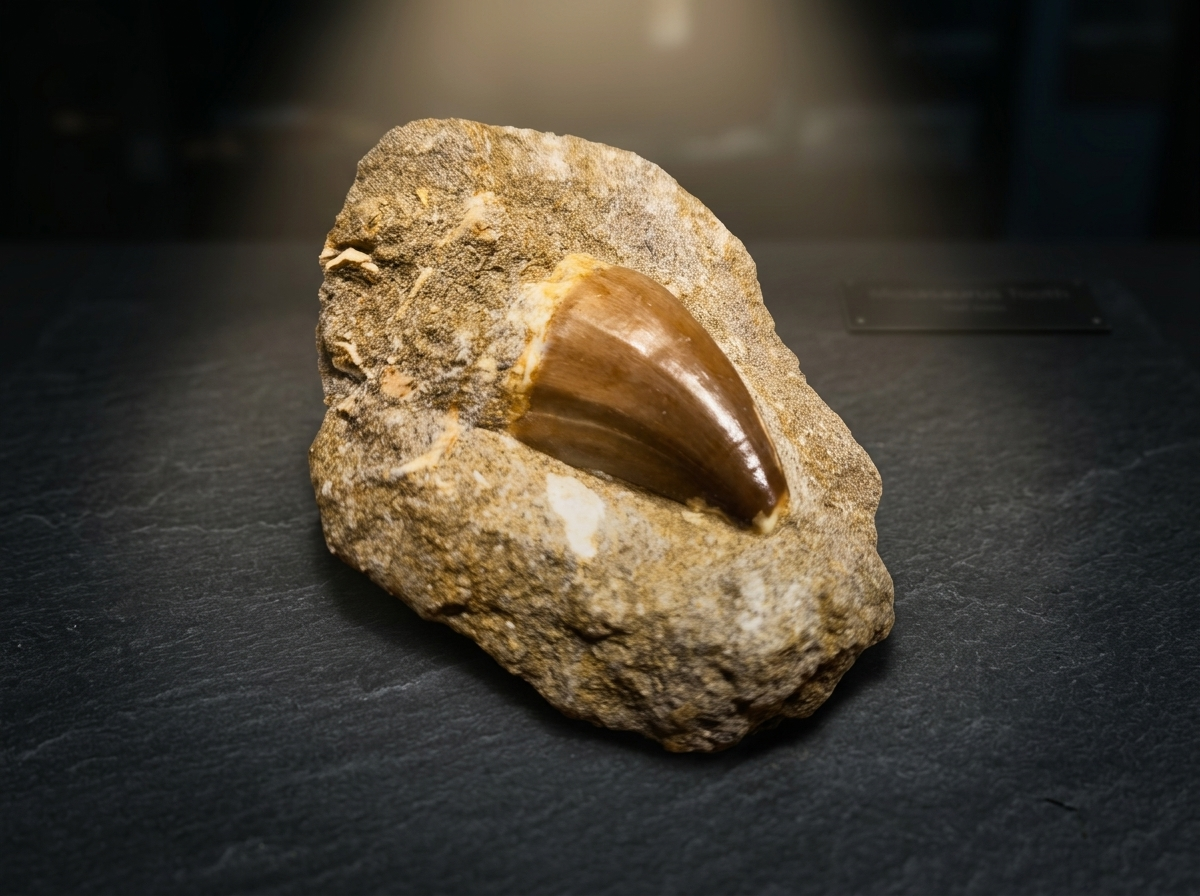
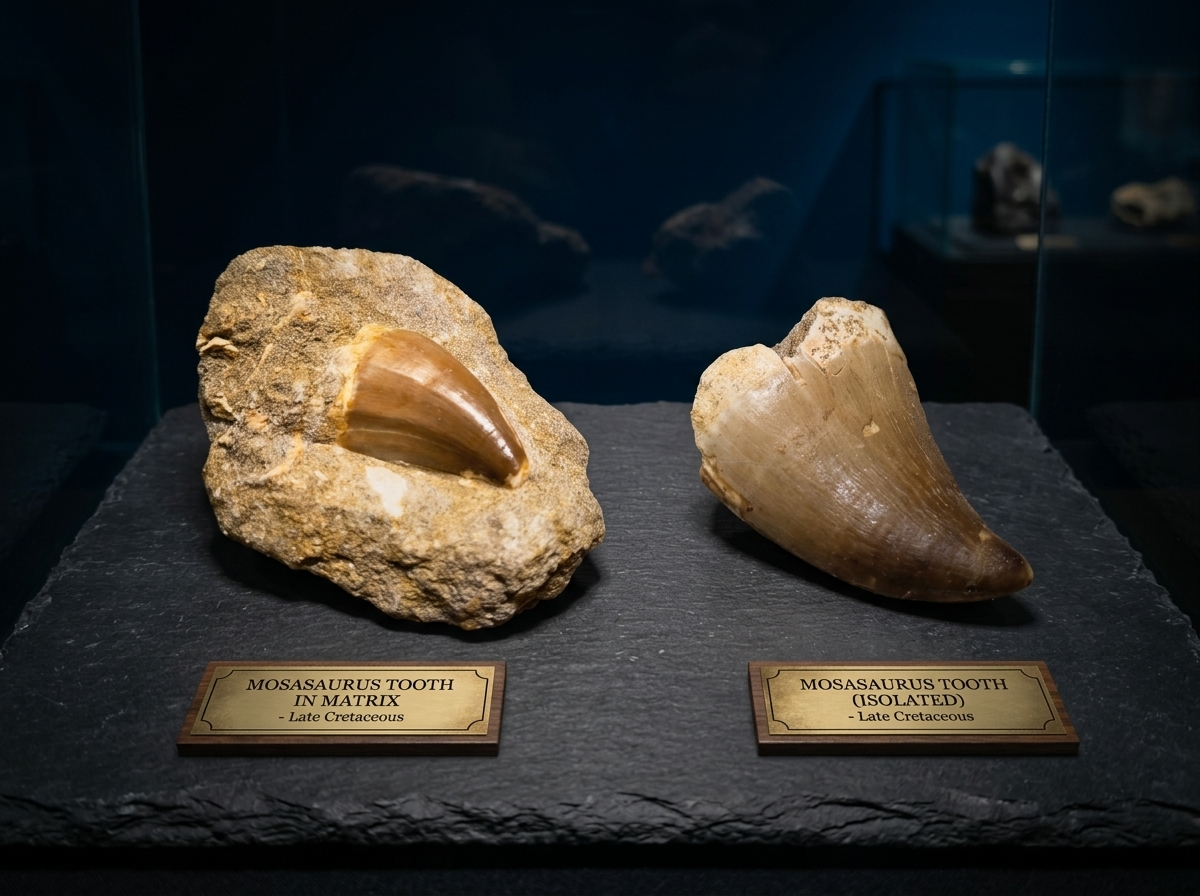
feat: spolocne muzejne fotografie a popisky pre 2 zuby mosasaura a 2 trilobity

diff --git a/data.js b/data.js
@@ -73,7 +73,7 @@ const FOSSILS_DATA = [
     name: "Mosasaurus beaugei / hoffmanni",
     commonName: "Mosasaurus",
     category: "marine",
-    fossilType: "Originálny zub morského dravca v matici",
+    fossilType: "2 originálne fosílne zuby (v matici + samostatný zub)",
     period: "Neskorá krieda (Maastricht)",
     shortPeriod: "Krieda (70 mil. r.)",
     age: "cca 66 – 72 miliónov rokov",
@@ -92,7 +92,7 @@ const FOSSILS_DATA = [
       funAnalogy: "Jeho lebka mala takmer 2 metre – dospelý človek by sa do jeho otvorenej tlamy zmestil vystretý celý bez toho, aby sa musel skrčiť. Na jedno prehltnutie by pohltil celého dospelého muža."
     },
 
-    fossilDescription: "Na tento zub sa pozeráte vo vitrínke: Masívny, ťažký zub s tmavou lesklou sklovinou a dvoma ostrými reznými hranami (karínami). V čeľustiach vyvíjal drvivý tlak potrebný na prelomenie hrubých pancierov pravekých morských korytnačiek a schránok amonitov.",
+    fossilDescription: "Na tieto exponáty sa pozeráte vo vitrínke: Dva originálne zuby morského predátora vystavené vedľa seba. Vľavo vidíte zub zachovaný v pôvodnej vápencovej matici horniny presne tak, ako bol vysekaný z marockých fosfátov. Vpravo je masívny izolovaný zub s dokonale odhalenou lesklou sklovinou, mohutnou bázou a dvoma ostrými reznými hranami (karínami) určenými na drvenie pancierov.",
     story: "Hoci Mosasaurus žil v rovnakom čase ako dinosaury, paleontologicky to dinosaurus nebol. Bol to plnohodnotný morský plaz z radu Squamata, ktorého dnešnými žijúcimi bratrancami sú varany a hady. Namiesto nôh mal hydrodynamické pádla a mocný chvost so žraločou plutvou.",
 
     trivia: [
@@ -246,7 +246,7 @@ const FOSSILS_DATA = [
     name: "Phacops rana / Flexicalymene ouzregui",
     commonName: "Trilobit",
     category: "invertebrates",
-    fossilType: "Kompletný trojlaločný pancier článkonožca v hornine",
+    fossilType: "2 originálne fosílne exempláre (s hlavovým štítom + robustný)",
     period: "Devón / Ordovik (staršie prvohory)",
     shortPeriod: "Devón (420 mil. r.)",
     age: "cca 390 – 450 miliónov rokov",
@@ -265,7 +265,7 @@ const FOSSILS_DATA = [
       funAnalogy: "Trilobit sa pohodlne zmestí do ľudskej dlane ruky. Najfascinujúcejší je však časový pomer: Medzi týmto trilobitom a T-Rexom ubehlo VIAC času (350 miliónov rokov), než koľko času ubehlo medzi T-Rexom a dnešným dňom (66 miliónov rokov)!"
     },
 
-    fossilDescription: "Na túto fosíliu sa pozeráte vo vitrínke: Pevný kalcitový exoskelet dokonale rozdelený na tri pozdĺžne laloky (tri-lobos) a tri priečne časti: hlavový štít (cephalon) s klenutými očami, článkovaný ohybný trup (thorax) a koncový chvostík (pygidium).",
+    fossilDescription: "Na tieto exponáty sa pozeráte vo vitrínke: Dva autentické exempláre pravekých článkonožcov vystavené vedľa seba. Vľavo je podlhovastý exemplár s nádherne zachovaným oblým hlavovým štítom (cephalon), očnými oblúkmi a článkovaným trupom. Vpravo je robustný, kompaktnejší exemplár s hrubým priečnym ryhovaním a prirodzenou okrovo-sivou patinou.",
     story: "Trilobity patrili k najúspešnejším tvorom v histórii života na Zemi. Objavili sa počas Kambrickej explózie pred vyše 520 miliónmi rokov a kraľovali moriam neuveriteľných 270 miliónov rokov (pre porovnanie: moderný človek Homo sapiens existuje sotva 300 000 rokov).",
 
     trivia: [
